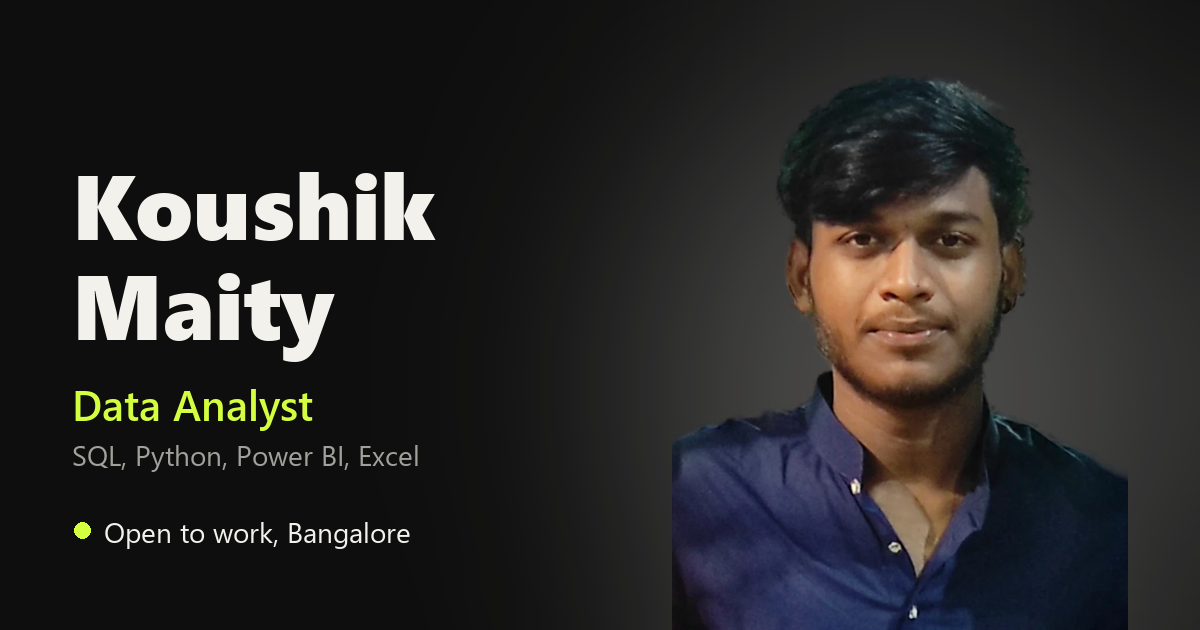
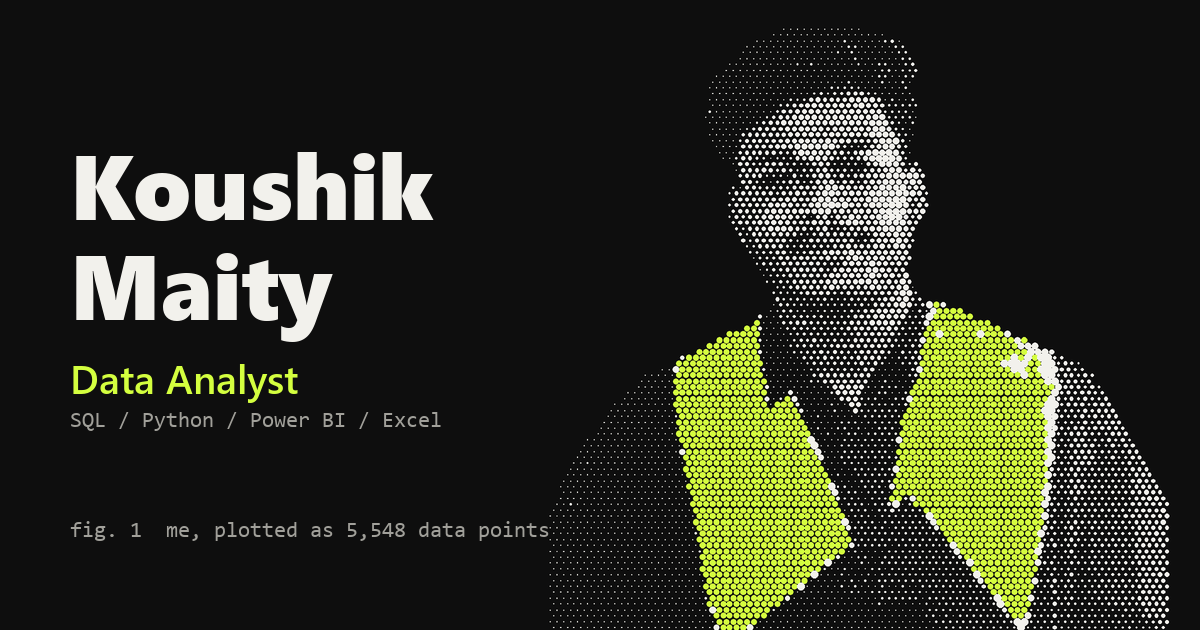
Dot portrait hero, scrollytelling projects, fix summary photo
Hero portrait drawn from the graduation photo as 5,548 dots that assemble on load. Projects told as a scrolling story with a fixed findings panel. Summary photo re-cropped with headroom and KPIs moved there. UPI chart now only on its project page.

diff --git a/src/components/Hero.jsx b/src/components/Hero.jsx
@@ -1,12 +1,8 @@
 import React, { useEffect, useRef, useState } from 'react'
 import { FiArrowDown, FiArrowUpRight } from 'react-icons/fi'
-import portrait from '../img/portrait.webp'
-import portraitSm from '../img/portrait-sm.webp'
-import LineChart from './LineChart'
+import DotPortrait from './DotPortrait'
 import { GoLink } from './Transition'
-import { resume, stats } from '../data'
-import { upiMonthly } from '../upi'
-import { useCount } from '../hooks'
+import { resume } from '../data'
 import { gsap, reduced, scrollTo } from '../motion'
 
 const ring = 'BASED IN BANGALORE • INDIA • OPEN TO WORK • '
@@ -19,7 +15,7 @@ const Badge = () => {
     return () => clearInterval(t)
   }, [])
   return (
-    <div className='relative w-32 h-32 sm:w-40 sm:h-40'>
+    <div className='relative w-28 h-28 sm:w-36 sm:h-36'>
       <svg viewBox='0 0 200 200' className='absolute inset-0 w-full h-full spin-slow' aria-hidden='true'>
         <defs><path id='ring' d='M100,100 m-78,0 a78,78 0 1,1 156,0 a78,78 0 1,1 -156,0' /></defs>
         <text className='fill-fg font-display' textLength='488' lengthAdjust='spacing' style={{ fontSize: 15, fontWeight: 600 }}>
@@ -27,84 +23,52 @@ const Badge = () => {
         </text>
       </svg>
       <div className='absolute inset-[26%] rounded-full bg-accent text-ink grid place-items-center text-center leading-none'>
-        <p><span className='block font-display text-xl sm:text-2xl font-semibold tabular-nums'>{now}</span><span className='text-[11px] font-bold tracking-wider'>IST</span></p>
+        <p><span className='block font-display text-lg sm:text-xl font-semibold tabular-nums'>{now}</span><span className='text-[10px] font-bold tracking-wider'>IST</span></p>
       </div>
       <span className='sr-only'>Based in Bangalore, India. Open to work.</span>
     </div>
   )
 }
 
-const Kpi = ({ value, suffix, label, start }) => {
-  const n = useCount(value, start)
-  return (
-    <div className='rounded-2xl border border-line bg-card/60 p-5'>
-      <p className='font-display text-4xl sm:text-5xl font-semibold tracking-tight tabular-nums'>{n}<span className='text-accent'>{suffix}</span></p>
-      <p className='mt-2 text-sm text-muted leading-snug'>{label}</p>
-    </div>
-  )
-}
-
 const Hero = ({ play }) => {
   const root = useRef(null)
-  const [chartOn, setChartOn] = useState(false)
 
   useEffect(() => {
-    if (!play) return
-    const t = setTimeout(() => setChartOn(true), 500)
-    if (reduced()) return () => clearTimeout(t)
+    if (!play || reduced()) return
     const ctx = gsap.context(() => {
       gsap.from('.hero-line > span', { yPercent: 110, duration: 1.3, ease: 'expo.out', stagger: 0.08 })
       gsap.from('.hero-fade', { opacity: 0, y: 30, duration: 1.2, ease: 'expo.out', stagger: 0.08, delay: 0.3 })
-      gsap.from('.hero-photo', { opacity: 0, y: 60, duration: 1.4, ease: 'expo.out', delay: 0.2 })
-      gsap.from('.hero-badge', { scale: 0, rotate: -120, duration: 1.6, ease: 'elastic.out(1, 0.6)', delay: 0.6 })
+      gsap.from('.hero-badge', { scale: 0, rotate: -120, duration: 1.6, ease: 'elastic.out(1, 0.6)', delay: 1.4 })
     }, root)
-    return () => { clearTimeout(t); ctx.revert() }
+    return () => ctx.revert()
   }, [play])
 
   return (
-    <section id='top' ref={root} className='relative pt-40 lg:pt-32 pb-16 overflow-hidden'>
+    <section id='top' ref={root} className='relative min-h-[100svh] pt-40 lg:pt-32 pb-16 flex items-center overflow-hidden'>
       <div className='absolute inset-0 grain pointer-events-none' />
-      <div className='wrap relative'>
-        <div className='hero-fade flex flex-wrap items-center justify-between gap-4 pb-6 border-b border-line text-sm'>
-          <span className='font-mono text-muted'>Portfolio / Data Analyst</span>
-          <span className='inline-flex items-center gap-2'><span className='w-2 h-2 rounded-full bg-accent animate-pulse' /> Open to Data Analyst and Business Analyst roles</span>
-        </div>
-
-        <div className='mt-12 grid lg:grid-cols-[1.25fr_0.75fr] gap-12 lg:gap-16 items-end'>
-          <div>
-            <h1 className='font-display text-[clamp(3.6rem,10vw,9.5rem)] font-semibold tracking-[-0.045em] leading-[0.88]'>
-              <span className='hero-line word-mask'><span>Koushik</span></span><br />
-              <span className='hero-line word-mask'><span>Maity<span className='text-accent'>.</span></span></span>
-            </h1>
-            <p className='hero-fade mt-8 max-w-xl text-xl sm:text-2xl text-muted leading-snug'>
-              Data analyst in Bangalore. I turn messy data into <span className='text-fg'>answers people can act on</span>, using SQL, Python, Power BI and Excel.
-            </p>
-            <div className='hero-fade mt-10 flex flex-wrap gap-3'>
-              <a href='#work' onClick={e => { e.preventDefault(); scrollTo(document.getElementById('work')) }} className='pill-accent'>See my projects <FiArrowDown /></a>
-              <GoLink to={resume} label='Resume' className='pill'>Resume <FiArrowUpRight /></GoLink>
-            </div>
+      <div className='wrap relative grid lg:grid-cols-[1.1fr_0.9fr] gap-14 lg:gap-12 items-center'>
+        <div>
+          <p className='hero-fade font-mono text-sm text-muted'>Data Analyst <span className='text-accent'>/</span> Bangalore, India</p>
+          <h1 className='mt-6 font-display text-[clamp(3.8rem,10.5vw,10rem)] font-semibold tracking-[-0.045em] leading-[0.86]'>
+            <span className='hero-line word-mask'><span>Koushik</span></span><br />
+            <span className='hero-line word-mask'><span>Maity<span className='text-accent'>.</span></span></span>
+          </h1>
+          <p className='hero-fade mt-8 max-w-lg text-xl sm:text-2xl text-muted leading-snug'>
+            I find the story in messy data and turn it into <span className='text-fg'>answers people can act on</span>.
+          </p>
+          <div className='hero-fade mt-10 flex flex-wrap items-center gap-3'>
+            <a href='#work' onClick={e => { e.preventDefault(); scrollTo(document.getElementById('work')) }} className='pill-accent'>See my projects <FiArrowDown /></a>
+            <GoLink to={resume} label='Resume' className='pill'>Resume <FiArrowUpRight /></GoLink>
           </div>
-
-          <div className='hero-photo relative'>
-            <div className='relative aspect-[4/5] rounded-[1.75rem] overflow-hidden border border-line bg-[radial-gradient(ellipse_at_50%_100%,rgb(var(--fg)/0.16),transparent_70%)]'>
-              <div className='absolute inset-0 opacity-40 [background-image:linear-gradient(rgb(var(--line))_1px,transparent_1px),linear-gradient(90deg,rgb(var(--line))_1px,transparent_1px)] [background-size:40px_40px]' />
-              <img src={portrait} srcSet={`${portraitSm} 520w, ${portrait} 777w`} sizes='(min-width: 1024px) 34vw, 90vw' fetchpriority='high' alt='Koushik Maity' width='777' height='955' className='absolute bottom-0 left-1/2 -translate-x-1/2 h-[92%] w-auto max-w-none' />
-            </div>
-            <div className='hero-badge absolute -top-10 -left-8 sm:-left-12'><Badge /></div>
-          </div>
+          <p className='hero-fade mt-10 flex flex-wrap gap-x-6 gap-y-2 font-mono text-sm text-muted'>
+            <span>SQL</span><span>Python</span><span>Power BI</span><span>Excel</span>
+          </p>
         </div>
 
-        <div className='hero-fade mt-12 grid grid-cols-2 lg:grid-cols-4 gap-3'>
-          {stats.map(([value, suffix, label]) => <Kpi key={label} value={value} suffix={suffix} label={label} start={chartOn} />)}
+        <div className='relative max-w-[560px] w-full mx-auto lg:ml-auto'>
+          <DotPortrait play={play} />
+          <div className='hero-badge absolute -top-6 -right-2 sm:-right-6'><Badge /></div>
         </div>
-
-        <figure className='hero-fade mt-3 rounded-[1.75rem] border border-line bg-card/60 p-5 sm:p-8'>
-          <figcaption className='flex flex-wrap items-baseline justify-between gap-3 mb-6'>
-            <span><span className='font-mono text-sm text-accent'>Exhibit 1</span><span className='ml-3 font-display text-lg sm:text-xl font-semibold'>Monthly UPI transactions in India, in billions</span></span>
-            <GoLink to='/work/upi-payments-dashboard' label='UPI Payments Dashboard' className='text-sm text-muted hover:text-accent'>From my UPI dashboard project <FiArrowUpRight className='inline' /></GoLink>
-          </figcaption>
-          <LineChart data={upiMonthly} unit='bn' play={chartOn} />
-        </figure>
       </div>
     </section>
   )

diff --git a/src/components/Work.jsx b/src/components/Work.jsx
@@ -4,23 +4,71 @@ import { GoLink } from './Transition'
 import { projects, otherProjects } from '../data'
 import { finePointer, gsap, whenIdle } from '../motion'
 
-const Card = ({ p, i }) => (
-  <GoLink to={`/work/${p.slug}`} label={p.title} className={`work-card group block ${i % 2 ? 'md:mt-40' : ''}`}>
-    <div className='relative aspect-[4/3] rounded-[1.25rem] bg-card overflow-hidden'>
-      <div className='absolute inset-0 bg-fg/[0.07] origin-bottom scale-y-0 group-hover:scale-y-100 transition-transform duration-700 ease-[cubic-bezier(.76,0,.24,1)]' />
-      <div className='absolute inset-0 grid place-items-center p-6 sm:p-12'>
-        <img src={p.cover} width={p.size[0]} height={p.size[1]} alt={`${p.title} preview`} loading='lazy' className='work-img w-full rounded-lg shadow-[0_30px_60px_-20px_rgb(0_0_0/0.6)] transition-transform duration-[1.2s] ease-[cubic-bezier(.16,1,.3,1)] group-hover:scale-[1.04]' />
+const Story = () => {
+  const [active, setActive] = useState(0)
+  const steps = useRef([])
+
+  useEffect(() => {
+    const io = new IntersectionObserver(entries => entries.forEach(e => {
+      if (e.isIntersecting) setActive(Number(e.target.dataset.i))
+    }), { rootMargin: '-45% 0px -45% 0px' })
+    steps.current.forEach(el => el && io.observe(el))
+    return () => io.disconnect()
+  }, [])
+
+  const n = projects.length
+  return (
+    <div className='grid lg:grid-cols-[0.55fr_0.45fr] gap-12 lg:gap-16'>
+      <div className='hidden lg:block'>
+        <div className='sticky top-28 h-[calc(100vh-9rem)] min-h-[520px] rounded-[1.75rem] border border-line bg-card p-8 flex flex-col'>
+          <div className='flex items-center justify-between font-mono text-sm text-muted'>
+            <span>Finding <span className='text-fg'>{String(active + 1).padStart(2, '0')}</span> of {String(n).padStart(2, '0')}</span>
+            <span>{projects[active].type}</span>
+          </div>
+          <div className='relative mt-8 h-44'>
+            {projects.map((p, i) => (
+              <div key={p.slug} aria-hidden={i !== active} className={`absolute inset-0 transition duration-700 ease-[cubic-bezier(.16,1,.3,1)] ${i === active ? 'opacity-100 translate-y-0' : i < active ? 'opacity-0 -translate-y-8' : 'opacity-0 translate-y-8'}`}>
+                <p className='font-display text-[clamp(4rem,7vw,7rem)] font-semibold tracking-tight leading-none text-accent'>{p.stat}</p>
+                <p className='mt-4 max-w-md text-xl leading-snug'>{p.statLabel}</p>
+              </div>
+            ))}
+          </div>
+          <div className='relative flex-1 mt-6 rounded-2xl bg-bg/60 overflow-hidden'>
+            {projects.map((p, i) => (
+              <img key={p.slug} src={p.cover} alt='' loading='lazy' className={`absolute inset-0 w-full h-full object-contain p-5 transition duration-700 ${i === active ? 'opacity-100 scale-100' : 'opacity-0 scale-95'}`} />
+            ))}
+          </div>
+          <div className='mt-6 grid gap-2' style={{ gridTemplateColumns: `repeat(${n}, 1fr)` }}>
+            {projects.map((p, i) => <span key={p.slug} className={`h-1 rounded-full transition-colors duration-500 ${i <= active ? 'bg-accent' : 'bg-line'}`} />)}
+          </div>
+        </div>
       </div>
-      <span className='absolute left-5 top-5 px-3 py-1 rounded-full bg-bg/80 text-sm font-medium backdrop-blur'>{p.type}</span>
+
+      <ol>
+        {projects.map((p, i) => (
+          <li key={p.slug} ref={el => (steps.current[i] = el)} data-i={i} className={`lg:min-h-[78vh] flex items-center py-10 lg:py-0 border-t lg:border-0 border-line transition-opacity duration-500 ${active === i ? 'lg:opacity-100' : 'lg:opacity-[0.8]'}`}>
+            <div>
+              <p className='font-mono text-sm text-muted'>{String(i + 1).padStart(2, '0')} / {String(n).padStart(2, '0')} <span className='text-accent'>{p.type}</span></p>
+              <h3 className='mt-4 font-display text-4xl sm:text-5xl font-semibold tracking-tight leading-[1.02]'>{p.title}</h3>
+              <p className='mt-4 text-xl sm:text-2xl text-muted'>{p.question}</p>
+              <div className='lg:hidden mt-8 rounded-2xl bg-card p-5'>
+                <p className='font-display text-6xl font-semibold text-accent leading-none'>{p.stat}</p>
+                <p className='mt-3 text-lg'>{p.statLabel}</p>
+                <img src={p.cover} width={p.size[0]} height={p.size[1]} alt='' loading='lazy' className='mt-5 w-full rounded-lg' />
+              </div>
+              <p className='mt-6 text-lg leading-relaxed text-fg/85'>{p.intro}</p>
+              <div className='mt-6 flex flex-wrap gap-2'>{p.tools.map(t => <span key={t} className='tag'>{t}</span>)}</div>
+              <div className='mt-8 flex flex-wrap gap-3'>
+                <GoLink to={`/work/${p.slug}`} label={p.title} className='pill-accent'>Open the case study <FiArrowUpRight /></GoLink>
+                <a href={p.links[0][1]} target='_blank' rel='noreferrer' className='pill'>Code</a>
+              </div>
+            </div>
+          </li>
+        ))}
+      </ol>
     </div>
-    <div className='mt-7 flex items-start justify-between gap-6 pb-6 border-b border-line'>
-      <h3 className='font-display text-3xl sm:text-4xl font-semibold tracking-tight'>{p.title}</h3>
-      <span className='mt-1 w-12 h-12 shrink-0 rounded-full border border-line grid place-items-center transition duration-500 group-hover:bg-accent group-hover:border-accent group-hover:text-ink group-hover:rotate-45'><FiArrowUpRight className='text-xl' /></span>
-    </div>
-    <p className='mt-5 text-lg text-muted'><span className='text-accent font-bold'>{p.stat}</span> {p.statLabel}</p>
-    <div className='mt-5 flex flex-wrap gap-2'>{p.tools.map(t => <span key={t} className='tag'>{t}</span>)}</div>
-  </GoLink>
-)
+  )
+}
 
 const Work = () => {
   const root = useRef(null)
@@ -29,9 +77,6 @@ const Work = () => {
   const [fine] = useState(finePointer)
 
   useEffect(() => whenIdle(root, () => {
-    gsap.utils.toArray('.work-card').forEach(card => {
-      gsap.from(card, { y: 120, opacity: 0, duration: 1.4, ease: 'expo.out', scrollTrigger: { trigger: card, start: 'top 90%' } })
-    })
     gsap.from('.work-title > span > span', { yPercent: 110, duration: 1.2, ease: 'expo.out', stagger: 0.08, scrollTrigger: { trigger: '.work-title', start: 'top 85%' } })
     gsap.from('.other-row', { y: 60, opacity: 0, duration: 1, ease: 'expo.out', stagger: 0.08, scrollTrigger: { trigger: '.other-list', start: 'top 85%' } })
   }), [])
@@ -60,12 +105,10 @@ const Work = () => {
             <span className='word-mask'><span>work<span className='text-accent'>.</span></span></span>
           </h2>
         </div>
-        <p className='max-w-sm text-lg text-muted'>Four end-to-end analyses on real public data. Open one to see the full story, the charts, and the code behind it.</p>
+        <p className='max-w-sm text-lg text-muted'>Four end-to-end analyses on real public data. Scroll through the main finding of each, then open the full case study.</p>
       </div>
 
-      <div className='grid md:grid-cols-2 gap-x-10 lg:gap-x-16 gap-y-20'>
-        {projects.map((p, i) => <Card key={p.slug} p={p} i={i} />)}
-      </div>
+      <Story />
 
       <div className='mt-36 sm:mt-48'>
         <div className='flex items-end justify-between gap-6 mb-8'>

diff --git a/src/components/DotPortrait.jsx b/src/components/DotPortrait.jsx
@@ -1,0 +1,92 @@
+import React, { useEffect, useRef, useState } from 'react'
+import { reduced } from '../motion'
+
+const ease = t => 1 - Math.pow(1 - t, 4)
+
+const DotPortrait = ({ play }) => {
+  const wrap = useRef(null)
+  const canvas = useRef(null)
+  const [data, setData] = useState(null)
+
+  useEffect(() => {
+    fetch('/dots.json').then(r => r.json()).then(setData).catch(() => {})
+  }, [])
+
+  useEffect(() => {
+    if (!data || !play) return
+    const cv = canvas.current
+    const ctx = cv.getContext('2d')
+    const css = getComputedStyle(document.documentElement)
+    const fg = `rgb(${css.getPropertyValue('--fg').trim().split(' ').join(',')})`
+    const accent = `rgb(${css.getPropertyValue('--accent').trim().split(' ').join(',')})`
+    const n = data.n
+    const start = new Float32Array(n * 2)
+    for (let i = 0; i < n; i++) {
+      start[i * 2] = Math.random() * 1000
+      start[i * 2 + 1] = 200 + Math.random() * (data.h - 200)
+    }
+    let frame
+    let t0
+    let size = 0
+
+    const fit = () => {
+      const w = wrap.current.clientWidth
+      const dpr = Math.min(window.devicePixelRatio || 1, 2)
+      cv.width = w * dpr
+      cv.height = (w * data.h / 1000) * dpr
+      cv.style.height = `${w * data.h / 1000}px`
+      size = (w / 1000) * dpr
+    }
+
+    const draw = p => {
+      ctx.clearRect(0, 0, cv.width, cv.height)
+      for (let c = 0; c < 2; c++) {
+        ctx.fillStyle = c ? accent : fg
+        ctx.beginPath()
+        for (let i = 0; i < n; i++) {
+          const o = i * 4
+          if (data.d[o + 3] !== c) continue
+          const tx = data.d[o]
+          const ty = data.d[o + 1]
+          const local = Math.min(Math.max((p * 1.35) - (ty / data.h) * 0.35, 0), 1)
+          const k = ease(local)
+          const x = (start[i * 2] + (tx - start[i * 2]) * k) * size
+          const y = (start[i * 2 + 1] + (ty - start[i * 2 + 1]) * k) * size
+          const r = Math.max(0.6, (data.d[o + 2] / 8) * data.s * 0.55 * (0.35 + 0.65 * k)) * size
+          ctx.moveTo(x + r, y)
+          ctx.arc(x, y, r, 0, Math.PI * 2)
+        }
+        ctx.fill()
+      }
+    }
+
+    const tick = now => {
+      if (!t0) t0 = now
+      const p = Math.min((now - t0) / 2200, 1)
+      draw(p)
+      if (p < 1) frame = requestAnimationFrame(tick)
+    }
+
+    fit()
+    if (reduced()) draw(1)
+    else frame = requestAnimationFrame(tick)
+    const resize = () => { fit(); draw(1) }
+    window.addEventListener('resize', resize)
+    return () => {
+      cancelAnimationFrame(frame)
+      window.removeEventListener('resize', resize)
+    }
+  }, [data, play])
+
+  return (
+    <figure ref={wrap} className='relative'>
+      <canvas ref={canvas} role='img' aria-label='Portrait of Koushik Maity drawn with dots' className='block w-full' style={{ aspectRatio: data ? `1000 / ${data.h}` : '1000 / 979' }} />
+      <figcaption className='mt-4 flex items-center justify-between gap-4 font-mono text-xs text-muted'>
+        <span><span className='text-accent'>fig. 1</span> me, plotted as {data ? data.n.toLocaleString('en-IN') : '...'} data points</span>
+        <span className='hidden sm:inline'>source: graduation photo</span>
+      </figcaption>
+    </figure>
+  )
+}
+
+export default DotPortrait

diff --git a/src/components/About.jsx b/src/components/About.jsx
@@ -2,18 +2,30 @@ import React, { useEffect, useRef } from 'react'
 import { FiArrowUpRight } from 'react-icons/fi'
 import { GoLink } from './Transition'
 import photo from '../img/kolkata.webp'
-import { resume } from '../data'
+import { resume, stats } from '../data'
+import { useCount, useInView } from '../hooks'
 import { gsap, whenIdle } from '../motion'
 
 const text = "I'm a data analyst with a B.Tech in Computer Science. I work mostly in SQL, Python, Power BI and Excel, and I like taking messy real-world data and turning it into clear answers someone can act on."
 
+const Kpi = ({ value, suffix, label, start }) => {
+  const n = useCount(value, start)
+  return (
+    <div className='rounded-2xl border border-line p-6'>
+      <p className='font-display text-5xl sm:text-6xl font-semibold tracking-tight tabular-nums'>{n}<span className='text-accent'>{suffix}</span></p>
+      <p className='mt-2 text-muted leading-snug'>{label}</p>
+    </div>
+  )
+}
+
 const About = () => {
   const root = useRef(null)
+  const [kpiRef, seen] = useInView('-10% 0px')
 
   useEffect(() => whenIdle(root, () => {
     gsap.from('.about-word > span', { yPercent: 110, duration: 1, ease: 'expo.out', stagger: 0.012, scrollTrigger: { trigger: '.about-text', start: 'top 80%' } })
     gsap.from('.about-side', { opacity: 0, y: 60, duration: 1.4, ease: 'expo.out', scrollTrigger: { trigger: '.about-side', start: 'top 85%' } })
-    gsap.fromTo('.about-photo img', { yPercent: -8, scale: 1.15 }, { yPercent: 8, scale: 1.15, ease: 'none', scrollTrigger: { trigger: '.about-photo', start: 'top bottom', end: 'bottom top', scrub: true } })
+    gsap.fromTo('.about-photo img', { yPercent: -4, scale: 1.1 }, { yPercent: 4, scale: 1.1, ease: 'none', scrollTrigger: { trigger: '.about-photo', start: 'top bottom', end: 'bottom top', scrub: true } })
   }), [])
 
   return (
@@ -31,8 +43,11 @@ const About = () => {
           <GoLink to={resume} label='Resume' className='pill mt-8'>Read my resume <FiArrowUpRight /></GoLink>
         </div>
         <div className='about-side about-photo relative aspect-[3/4] rounded-[1.5rem] overflow-hidden bg-card'>
-          <img src={photo} alt='Koushik Maity at the Victoria Memorial in the evening' width='900' height='1200' loading='lazy' className='absolute inset-0 w-full h-full object-cover' />
+          <img src={photo} alt='Koushik Maity at the Victoria Memorial in the evening' width='900' height='1200' loading='lazy' className='absolute inset-0 w-full h-full object-cover object-[50%_20%]' />
         </div>
+      </div>
+      <div ref={kpiRef} className='mt-20 grid grid-cols-2 lg:grid-cols-4 gap-3'>
+        {stats.map(([value, suffix, label]) => <Kpi key={label} value={value} suffix={suffix} label={label} start={seen} />)}
       </div>
     </section>
   )
